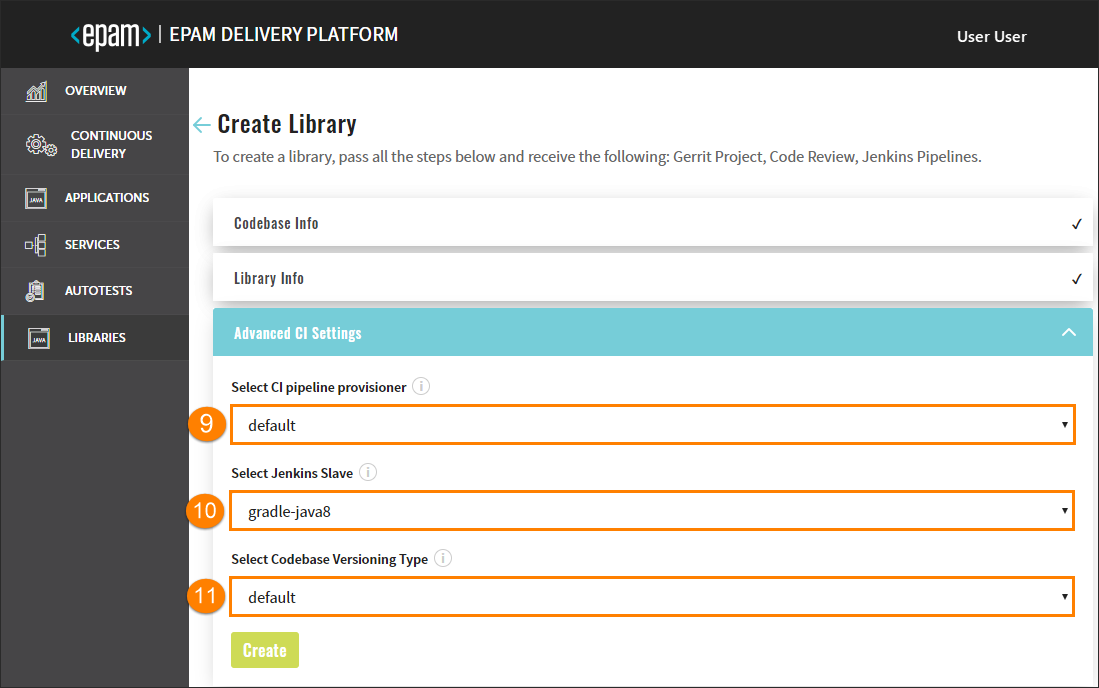
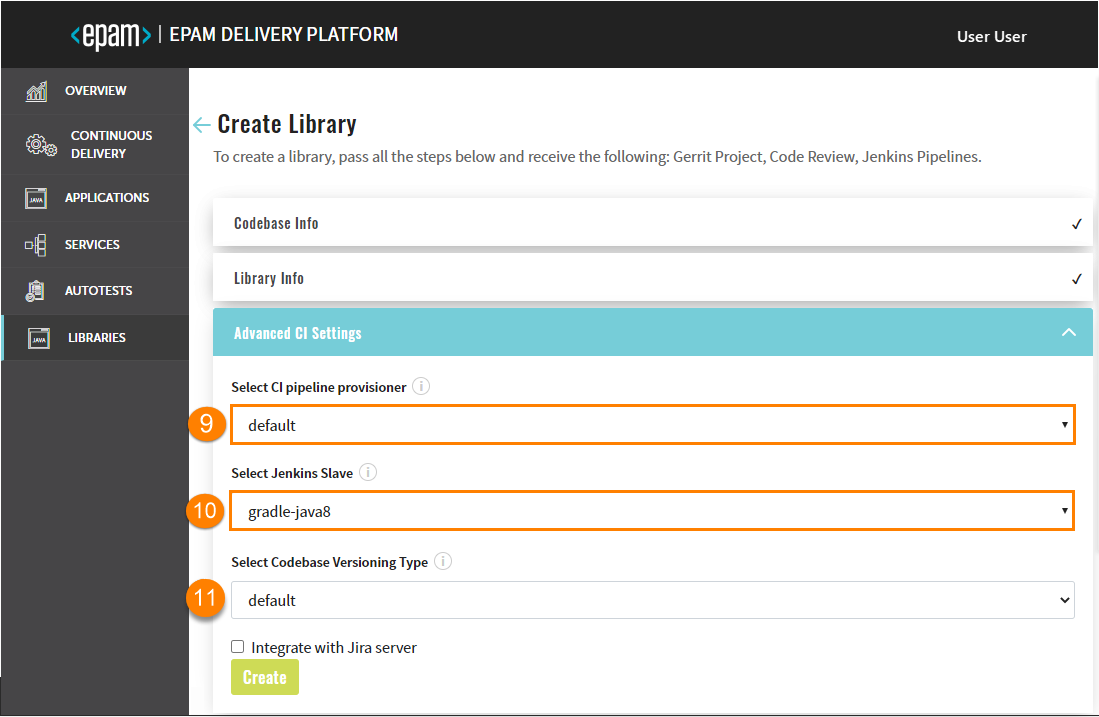
Updated AC guide for the v.2.4.0

diff --git a/documentation/add_applications.md b/documentation/add_applications.md
@@ -68,7 +68,7 @@ _**NOTE**: The Version Control System Info menu is available in case this option
 
     ## The Advanced Settings Menu
 
-    ![add-app3](../readme-resource/addapp3.png "add-app3")
+    ![add-app3](../readme-resource/addapp3_ji.png "add-app3")
 
 10. Select CI pipeline provisioner that will be handling a codebase. For details, refer to the [Add Job Provision](https://github.com/epmd-edp/jenkins-operator/blob/master/documentation/add-job-provision.md#add-job-provision) instruction and become familiar with the main steps to add an additional job provisioner.
 11. Select Jenkins slave that will be used to handle a codebase. For details, refer to the [Add Jenkins Slave](https://github.com/epmd-edp/jenkins-operator/blob/master/documentation/add-jenkins-slave.md#add-jenkins-slave) instruction and inspect the steps that should be done to add a new Jenkins slave.  
@@ -87,15 +87,23 @@ _**NOTE**: The Version Control System Info menu is available in case this option
      _**NOTE**: The Start Version From field should be filled out in compliance with the semantic versioning rules, e.g. 1.2.3 or 10.10.10._
                       
 13. In the **Select Deployment Script** field, specify one of the available options: helm-chart / openshift-template that are predefined in case it is OpenShift or EKS.  
-14. Click the Proceed button to be switched to the next menu.
+14. Select the **Integrate with Jira Server** checkbox in case it is required to connect Jira tickets with the commits and have a respective label in the Fix Version field.
+    >_**NOTE**: To adjust the Jira integration functionality, first apply the necessary changes described on the [Adjust Integration With Jira Server](../documentation/jira-server.md) page, and setup the [VCS Integration With Jira Server](../documentation/jira_vcs_integration.md)._ 
+                                                                                                                                                                                 
+    ![add-app3](../readme-resource/add_app3_ji2.png "add-app3_2")
+
+15. As soon as the Jira server is set, select it in the **Select Jira Server** field.
+16. Indicate the pattern using any character, which is followed on the project, to validate a commit message.
+17. Indicate the pattern using any character, which is followed on the project, to find a Jira ticket number in a commit message.
+18. Click the Proceed button to be switched to the next menu.
 
     ## The Version Control System Info Menu
 
     ![add-app4](../readme-resource/addapp4.png "add-app4")
     
-15. Enter the login credentials into the **VCS Login** field.
-16. Enter the password into the **VCS Password (or API Token)** field OR add the API Token.
-17. Click the Proceed button to be switched to the next menu.
+19. Enter the login credentials into the **VCS Login** field.
+20. Enter the password into the **VCS Password (or API Token)** field OR add the API Token.
+21. Click the Proceed button to be switched to the next menu.
     
     _**NOTE**: The VCS Info step will be skipped in case you don`t need to integrate the version control for the application deployment. If the cloned application included the VCS, you will have to complete this step as well._
 
@@ -103,27 +111,27 @@ _**NOTE**: The Version Control System Info menu is available in case this option
 
     ![add-app5](../readme-resource/addapp5.png "add-app5")
 
-18. Select the **Need Route** check box to create a route component in the OpenShift project for the externally reachable host name. As a result, the added application will be accessible in a browser.
+22. Select the **Need Route** check box to create a route component in the OpenShift project for the externally reachable host name. As a result, the added application will be accessible in a browser.
     
     Fill in the necessary fields:
     
     - Name – type the name by entering at least two characters and by using the lower-case letters, numbers and inner dashes. The mentioned name will be as a prefix for the host name.
     - Path – specify the path starting with the **/api** characters. The mentioned path will be at the end of the URL path.
     
-19. Click the Proceed button to be switched to the final menu.
+23. Click the Proceed button to be switched to the final menu.
 
     ## The Database Menu
 
     ![add-app6](../readme-resource/addapp6.png "add-app6")
 
-20. Select the **Need Database** check box in case you need a database. Fill in the required fields:
+24. Select the **Need Database** check box in case you need a database. Fill in the required fields:
     
     - Database – the PostgreSQL DB is available by default.
     - Version – the latest version (postgres:9.6) of the PostgreSQL DB is available by default.
     - Capacity – indicate the necessary size of the database and its unit of measurement (Mi – megabyte, Gi – gigabyte, Ti – terabyte). There is no limit for the database capacity.
     - Persistent storage – select one of the available storage methods: efs or gp2.
     
-21. Click the Create button. Once clicked, the CONFIRMATION summary will appear displaying all the specified options and settings, click Continue to complete the application addition.
+25. Click the Create button. Once clicked, the CONFIRMATION summary will appear displaying all the specified options and settings, click Continue to complete the application addition.
     
 >_**NOTE**: After the complete adding of the application, please refer to the [Inspect Application](../documentation/inspect_application.md) page._
 
@@ -131,3 +139,5 @@ _**NOTE**: The Version Control System Info menu is available in case this option
 
 * [Inspect Application](../documentation/inspect_application.md)
 * [Add CD Pipelines](../documentation/add_CD_pipelines.md)
+* [Adjust Integration With Jira Server](../documentation/jira-server.md)
+* [Adjust VCS Integration With Jira Server](../documentation/jira_vcs_integration.md)

diff --git a/documentation/add_autotests.md b/documentation/add_autotests.md
@@ -72,19 +72,25 @@ There are two available strategies: clone and import. The Clone strategy flow is
          
     _**NOTE**: The Start Version From field should be filled out in compliance with the semantic versioning rules, e.g. 1.2.3 or 10.10.10._
     
-    _**INFO**: Click the Create button to create an autotest or click the Proceed button to be switched to the next VCS menu that can be predefined._ 
-
+12. Select the **Integrate with Jira Server** checkbox in case it is required to connect Jira tickets with the commits and have a respective label in the Fix Version field.
+       >_**NOTE**: To adjust the Jira integration functionality, first apply the necessary changes described on the [Adjust Integration With Jira Server](../documentation/jira-server.md) page, and setup the [VCS Integration With Jira Server](../documentation/jira_vcs_integration.md)._ 
+    
+       ![add-app3_2](../readme-resource/add_test3_ji2.png "add-app3_2")
+13. As soon as the Jira server is set, select it in the **Select Jira Server** field.
+14. Indicate the pattern using any character, which is followed on the project, to validate a commit message.
+15. Indicate the pattern using any character, which is followed on the project, to find a Jira ticket number in a commit message.
+16. Click the Create button to create an autotest or click the Proceed button to be switched to the next VCS menu that can be predefined.
     ## The Version Control System Info Menu
 
     Once navigated to the VCS Info menu, perform the following:
     
     ![addtest5](../readme-resource/addtest5.png "addtest5")
 
-12. Enter the login credentials into the **VCS Login** field.
+17. Enter the login credentials into the **VCS Login** field.
 
-13. Enter the password into the **VCS Password (or API Token)** field OR add the API Token.
+18. Enter the password into the **VCS Password (or API Token)** field OR add the API Token.
 
-14. Click the Create button, check the CONFIRMATION summary, click Continue to add an autotest to the Autotests list. 
+19. Click the Create button, check the CONFIRMATION summary, click Continue to add an autotest to the Autotests list. 
 
 >_**NOTE**: After the complete adding of the autotest, inspect the [Inspect Autotest](../documentation/inspect_autotest.md) part._
 
@@ -92,3 +98,5 @@ There are two available strategies: clone and import. The Clone strategy flow is
 
 * [Inspect Autotest](../documentation/inspect_autotest.md)
 * [Add CD Pipelines](../documentation/add_CD_pipelines.md)
+* [Adjust Integration With Jira Server](../documentation/jira-server.md)
+* [Adjust VCS Integration With Jira Server](../documentation/jira_vcs_integration.md)

diff --git a/documentation/add_libraries.md b/documentation/add_libraries.md
@@ -75,15 +75,22 @@ _**NOTE**: The Version Control System Info menu is available in case this option
          
     _**NOTE**: The Start Version From field should be filled out in compliance with the semantic versioning rules, e.g. 1.2.3 or 10.10.10._    
     
-    _**INFO**: Click the Create button to create an autotest or click the Proceed button to be switched to the next VCS menu that can be predefined._ 
+12. Select the **Integrate with Jira Server** checkbox in case it is required to connect Jira tickets with the commits and have a respective label in the Fix Version field.
+       >_**NOTE**: To adjust the Jira integration functionality, first apply the necessary changes described on the [Adjust Integration With Jira Server](../documentation/jira-server.md) page, and setup the [VCS Integration With Jira Server](../documentation/jira_vcs_integration.md)._ 
+       
+       ![add-app3_2](../readme-resource/add_test3_ji2.png "add-app3_2")
+13. As soon as the Jira server is set, select it in the **Select Jira Server** field.
+14. Indicate the pattern using any character, which is followed on the project, to validate a commit message.
+15. Indicate the pattern using any character, which is followed on the project, to find a Jira ticket number in a commit message.
+16. Click the Create button to create a library or click the Proceed button to be switched to the next VCS menu that can be predefined.
 
     ## The Version Control System Info Menu
 
     ![addlib4](../readme-resource/addlib4.png "addlib4")
 
-12. Enter the login credentials into the **VCS Login** field.
-13. Enter the password into the **VCS Password (or API Token)** field OR add the API Token.
-14. Click the Create button, check the CONFIRMATION summary, click Continue to add the library to the Libraries list.
+17. Enter the login credentials into the **VCS Login** field.
+18. Enter the password into the **VCS Password (or API Token)** field OR add the API Token.
+19. Click the Create button, check the CONFIRMATION summary, click Continue to add the library to the Libraries list.
 
 > _**NOTE**: After the complete adding of the library, inspect the [Inspect Library](../documentation/inspect_library.md) part._
 
@@ -91,3 +98,5 @@ _**NOTE**: The Version Control System Info menu is available in case this option
 
 * [Inspect Library](../documentation/inspect_library.md)
 * [Add CD Pipelines](../documentation/add_CD_pipelines.md)
+* [Adjust Integration With Jira Server](../documentation/jira-server.md)
+* [Adjust VCS Integration With Jira Server](../documentation/jira_vcs_integration.md)

diff --git a/documentation/jira-server.md b/documentation/jira-server.md
@@ -15,4 +15,7 @@ In order to adjust the Jira server integration, first add JiraServer CR by perfo
 3. Being in Admin Console, navigate to the Advanced Settings menu to check that the Integrate with Jira Server check box became available:  
 
     ![jira-server-integration](../readme-resource/jira_integration_ac.png "jira-server-integration")
+    
+### Related Articles
+- [Adjust VCS Integration With Jira Server](../documentation/jira_vcs_integration.md)
 

diff --git a/documentation/jira_vcs_integration.md b/documentation/jira_vcs_integration.md
@@ -32,7 +32,8 @@ Add the repositories links and fill in the *Keep Informed* field as this request
 
     ![crucible_project](../readme-resource/crucible_project_1.png "crucible_project")
 
- 
+### Related Articles
+- [Adjust Integration With Jira Server](../documentation/jira-server.md)
 
 
 
